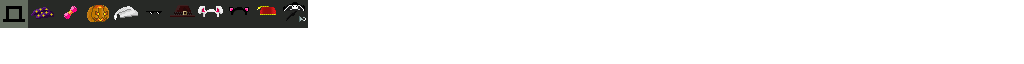
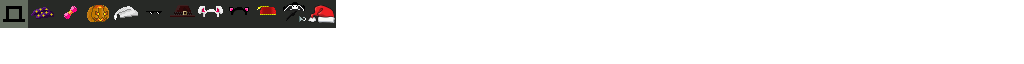
V1.15

Changed region(s): [[0.2812, 0.0, 0.3438, 0.4375]]

diff --git a/PixelDungeon/src/main/java/com/watabou/pixeldungeon/actors/hero/HeroClass.java b/PixelDungeon/src/main/java/com/watabou/pixeldungeon/actors/hero/HeroClass.java
@@ -20,9 +20,6 @@ package com.watabou.pixeldungeon.actors.hero;
 
 import com.coner.android.util.TrackedRuntimeException;
 import com.coner.pixeldungeon.items.accessories.Accessory;
-import com.coner.pixeldungeon.items.guts.weapon.melee.Claymore;
-import com.coner.pixeldungeon.items.necropolis.BlackSkull;
-import com.coner.pixeldungeon.items.necropolis.BladeOfSouls;
 import com.coner.pixeldungeon.remake.BuildConfig;
 import com.coner.pixeldungeon.remake.R;
 import com.watabou.noosa.Game;
@@ -36,15 +33,12 @@ import com.watabou.pixeldungeon.items.armor.MageArmor;
 import com.watabou.pixeldungeon.items.armor.RogueArmor;
 import com.watabou.pixeldungeon.items.armor.WarriorArmor;
 import com.watabou.pixeldungeon.items.food.Ration;
-import com.watabou.pixeldungeon.items.potions.PotionOfLiquidFlame;
 import com.watabou.pixeldungeon.items.potions.PotionOfStrength;
-import com.watabou.pixeldungeon.items.potions.PotionOfToxicGas;
 import com.watabou.pixeldungeon.items.rings.RingOfShadows;
 import com.watabou.pixeldungeon.items.scrolls.Scroll;
 import com.watabou.pixeldungeon.items.scrolls.ScrollOfIdentify;
 import com.watabou.pixeldungeon.items.scrolls.ScrollOfMagicMapping;
-import com.watabou.pixeldungeon.items.scrolls.ScrollOfSummon;
-import com.watabou.pixeldungeon.items.scrolls.ScrollOfWeaponUpgrade;
+import com.watabou.pixeldungeon.items.scrolls.ScrollOfSummon1;
 import com.watabou.pixeldungeon.items.wands.WandOfMagicMissile;
 import com.watabou.pixeldungeon.items.weapon.melee.Dagger;
 import com.watabou.pixeldungeon.items.weapon.melee.Knuckles;
@@ -144,7 +138,7 @@ public enum HeroClass {
 		hero.attackSkill = 1000;
 		hero.defenseSkill = 1000;*/
 		//hero.hasPetAccessory = true;
-		Scroll scroll = new ScrollOfSummon();
+		Scroll scroll = new ScrollOfSummon1();
 		hero.collect(scroll);
 
 		List<String> accessories = Accessory.getAccessoriesList();

diff --git a/PixelDungeon/src/main/java/com/coner/pixeldungeon/items/common/ItemFactory.java b/PixelDungeon/src/main/java/com/coner/pixeldungeon/items/common/ItemFactory.java
@@ -99,7 +99,7 @@ import com.watabou.pixeldungeon.items.rings.RingOfStoneWalking;
 import com.watabou.pixeldungeon.items.rings.RingOfThorns;
 import com.watabou.pixeldungeon.items.scrolls.BlankScroll;
 import com.watabou.pixeldungeon.items.scrolls.ScrollOfChallenge;
-import com.watabou.pixeldungeon.items.scrolls.ScrollOfSummon;
+import com.watabou.pixeldungeon.items.scrolls.ScrollOfSummon1;
 import com.watabou.pixeldungeon.items.scrolls.ScrollOfCurse;
 import com.watabou.pixeldungeon.items.scrolls.ScrollOfDomination;
 import com.watabou.pixeldungeon.items.scrolls.ScrollOfIdentify;
@@ -217,7 +217,7 @@ public class ItemFactory {
 		registerItemClass(ScrollOfDomination.class);
 		registerItemClass(ScrollOfRemoveCurse.class);
 		registerItemClass(ScrollOfPsionicBlast.class);
-		registerItemClass(ScrollOfSummon.class);
+		registerItemClass(ScrollOfSummon1.class);
 		registerItemClass(PotionOfLevitation.class);
 		registerItemClass(PotionOfStrength.class);
 		registerItemClass(PotionOfMindVision.class);

diff --git a/PixelDungeon/src/main/java/com/watabou/pixeldungeon/items/scrolls/Scroll.java b/PixelDungeon/src/main/java/com/watabou/pixeldungeon/items/scrolls/Scroll.java
@@ -50,7 +50,7 @@ public abstract class Scroll extends Item {
 			ScrollOfTeleportation.class,
 			ScrollOfUpgrade.class,
 			ScrollOfChallenge.class,
-			ScrollOfSummon.class,
+			ScrollOfSummon1.class,
 			ScrollOfTerror.class,
 			ScrollOfLullaby.class,
 			ScrollOfWeaponUpgrade.class,
@@ -68,7 +68,7 @@ public abstract class Scroll extends Item {
 			ScrollOfTeleportation.class,
 			ScrollOfUpgrade.class,
 			ScrollOfChallenge.class,
-			ScrollOfSummon.class,
+			ScrollOfSummon1.class,
 			ScrollOfTerror.class,
 			ScrollOfLullaby.class,
 			ScrollOfPsionicBlast.class,
@@ -95,7 +95,9 @@ public abstract class Scroll extends Item {
 			ItemSpriteSheet.SCROLL_ANSUZ,
 			ItemSpriteSheet.SCROLL_IWAZ,
 			ItemSpriteSheet.SCROLL_ALGIZ,
-			ItemSpriteSheet.SCROLL_DAGAZ};
+			ItemSpriteSheet.SCROLL_DAGAZ,
+			ItemSpriteSheet.SCROLL_SAHEZ
+	};
 
 	private static ItemStatusHandler<Scroll> handler;
 

diff --git a/PixelDungeon/src/main/java/com/watabou/pixeldungeon/actors/hero/Hero.java b/PixelDungeon/src/main/java/com/watabou/pixeldungeon/actors/hero/Hero.java
@@ -26,7 +26,6 @@ import com.coner.pixeldungeon.items.common.RatKingCrown;
 import com.coner.pixeldungeon.items.common.armor.SpiderArmor;
 import com.coner.pixeldungeon.items.guts.HeartOfDarkness;
 import com.coner.pixeldungeon.mobs.spiders.SpiderServant;
-import com.coner.pixeldungeon.remake.BuildConfig;
 import com.coner.pixeldungeon.remake.EventCollector;
 import com.coner.pixeldungeon.remake.R;
 import com.coner.pixeldungeon.mobs.guts.SpiritOfPain;
@@ -116,7 +115,6 @@ import com.watabou.pixeldungeon.scenes.InterlevelScene;
 import com.watabou.pixeldungeon.scenes.SurfaceScene;
 import com.watabou.pixeldungeon.sprites.CharSprite;
 import com.watabou.pixeldungeon.sprites.HeroSpriteDef;
-import com.watabou.pixeldungeon.sprites.MobSprite;
 import com.watabou.pixeldungeon.ui.AttackIndicator;
 import com.watabou.pixeldungeon.ui.BuffIndicator;
 import com.watabou.pixeldungeon.ui.QuickSlot;

diff --git a/PixelDungeon/src/main/java/com/watabou/pixeldungeon/items/Generator.java b/PixelDungeon/src/main/java/com/watabou/pixeldungeon/items/Generator.java
@@ -69,7 +69,7 @@ import com.watabou.pixeldungeon.items.rings.RingOfThorns;
 import com.watabou.pixeldungeon.items.scrolls.BlankScroll;
 import com.watabou.pixeldungeon.items.scrolls.Scroll;
 import com.watabou.pixeldungeon.items.scrolls.ScrollOfChallenge;
-import com.watabou.pixeldungeon.items.scrolls.ScrollOfSummon;
+import com.watabou.pixeldungeon.items.scrolls.ScrollOfSummon1;
 import com.watabou.pixeldungeon.items.scrolls.ScrollOfCurse;
 import com.watabou.pixeldungeon.items.scrolls.ScrollOfDomination;
 import com.watabou.pixeldungeon.items.scrolls.ScrollOfIdentify;
@@ -199,7 +199,7 @@ public class Generator {
 				BlankScroll.class,
 				ScrollOfDomination.class,
 				ScrollOfCurse.class,
-				ScrollOfSummon.class,
+				ScrollOfSummon1.class,
 		};
 
 		Category.SCROLL.probs = new float[]{ 30, 10, 15, 0, 10, 15, 12, 8, 8, 0, 4, 6, 10, 8, 6, 3};

diff --git a/PixelDungeon/src/main/java/com/coner/pixeldungeon/items/accessories/SantaHat.java b/PixelDungeon/src/main/java/com/coner/pixeldungeon/items/accessories/SantaHat.java
@@ -1,0 +1,21 @@
+package com.coner.pixeldungeon.items.accessories;
+
+import com.coner.pixeldungeon.remake.R;
+import com.watabou.noosa.Game;
+
+public class SantaHat extends Accessory {
+
+    {
+        coverHair = true;
+        image = 11;
+        additionalHP = 10;
+        additionalAttackSkill = 3;
+        additionalDefenseSkill = 3;
+
+    }
+
+    public String getInfo() {
+        return Game.getVar(R.string.SantaHatDesc);
+    }
+
+}

diff --git a/PixelDungeon/src/main/java/com/watabou/pixeldungeon/actors/mobs/Mob.java b/PixelDungeon/src/main/java/com/watabou/pixeldungeon/actors/mobs/Mob.java
@@ -891,10 +891,15 @@ public abstract class Mob extends Char {
 	}
 
 	public static Mob randomPet(Hero hero) throws IllegalAccessException, InstantiationException {
+		boolean b = false;
 		Mob pet;
 		do {
 			pet = MobFactory.mobClassRandom().newInstance();
-		} while (pet.canBePet());
+			b = pet.canBePet();
+			if (b = false) {
+				pet = null;
+			}
+		} while (b=false);
 
 		pet.setFraction(Fraction.HEROES);
 		hero.addPet(pet);

diff --git a/PixelDungeon/src/main/java/com/watabou/pixeldungeon/sprites/ItemSpriteSheet.java b/PixelDungeon/src/main/java/com/watabou/pixeldungeon/sprites/ItemSpriteSheet.java
@@ -127,6 +127,7 @@ public class ItemSpriteSheet {
 	public static final int SCROLL_IWAZ 	= 129;
 	public static final int SCROLL_ALGIZ	= 130;
 	public static final int SCROLL_DAGAZ	= 131;
+	public static final int SCROLL_SAHEZ	= 147;
 	
 	// Seeds
 	public static final int SEED_FIREBLOOM	= 88;

diff --git a/PixelDungeon/src/main/java/com/coner/pixeldungeon/mobs/guts/YogsBrain.java b/PixelDungeon/src/main/java/com/coner/pixeldungeon/mobs/guts/YogsBrain.java
@@ -74,6 +74,11 @@ public class YogsBrain extends Boss {
     }
 
     @Override
+    public boolean canBePet(){
+        return false;
+    }
+
+    @Override
     protected boolean doAttack( Char enemy ) {
 
         if (Dungeon.level.distance( getPos(), enemy.getPos() ) <= 1) {

diff --git a/PixelDungeon/src/main/java/com/watabou/pixeldungeon/actors/mobs/Yog.java b/PixelDungeon/src/main/java/com/watabou/pixeldungeon/actors/mobs/Yog.java
@@ -288,6 +288,11 @@ public class Yog extends Boss {
 		}
 
 		@Override
+		public boolean canBePet(){
+			return false;
+		}
+
+		@Override
 		protected boolean canAttack(Char enemy) {
 			return Ballistica.cast(getPos(), enemy.getPos(), false, true) == enemy.getPos();
 		}

diff --git a/PixelDungeon/src/main/java/com/coner/pixeldungeon/items/accessories/Accessory.java b/PixelDungeon/src/main/java/com/coner/pixeldungeon/items/accessories/Accessory.java
@@ -52,6 +52,7 @@ public class Accessory {
 		registerAccessory(Shades.class);
 		registerAccessory(NekoEars.class);
 		registerAccessory(PirateSet.class);
+		registerAccessory(SantaHat.class);
 	}
 
 	public static List<String> getAccessoriesList() {

diff --git a/PixelDungeon/src/main/java/com/coner/pixeldungeon/mobs/guts/YogsTeeth.java b/PixelDungeon/src/main/java/com/coner/pixeldungeon/mobs/guts/YogsTeeth.java
@@ -64,5 +64,10 @@ public class YogsTeeth extends Boss {
     public int attackSkill( Char target ) { return 36; }
 
     @Override
+    public boolean canBePet(){
+        return false;
+    }
+
+    @Override
     public int dr() { return 21; }
 }
